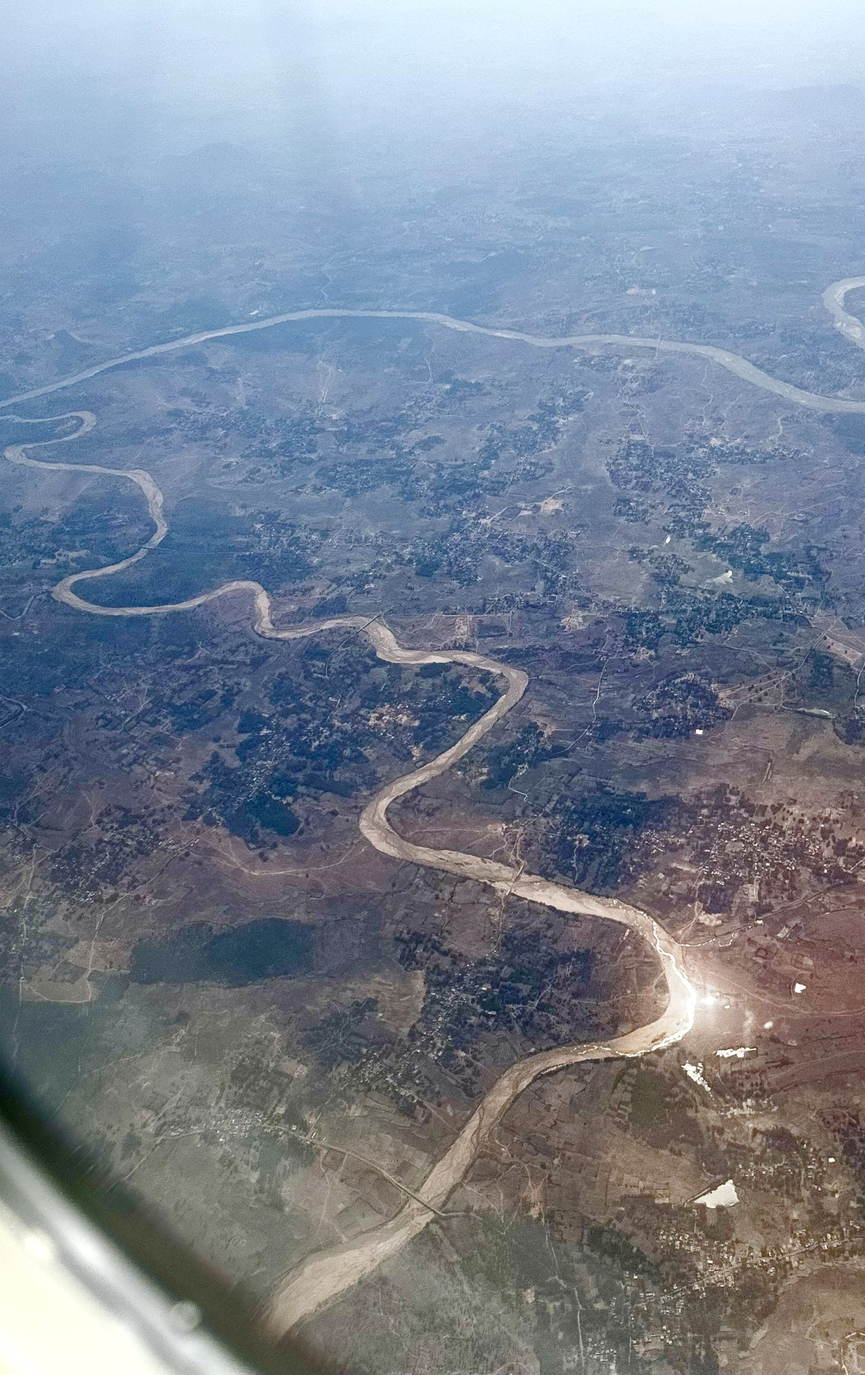
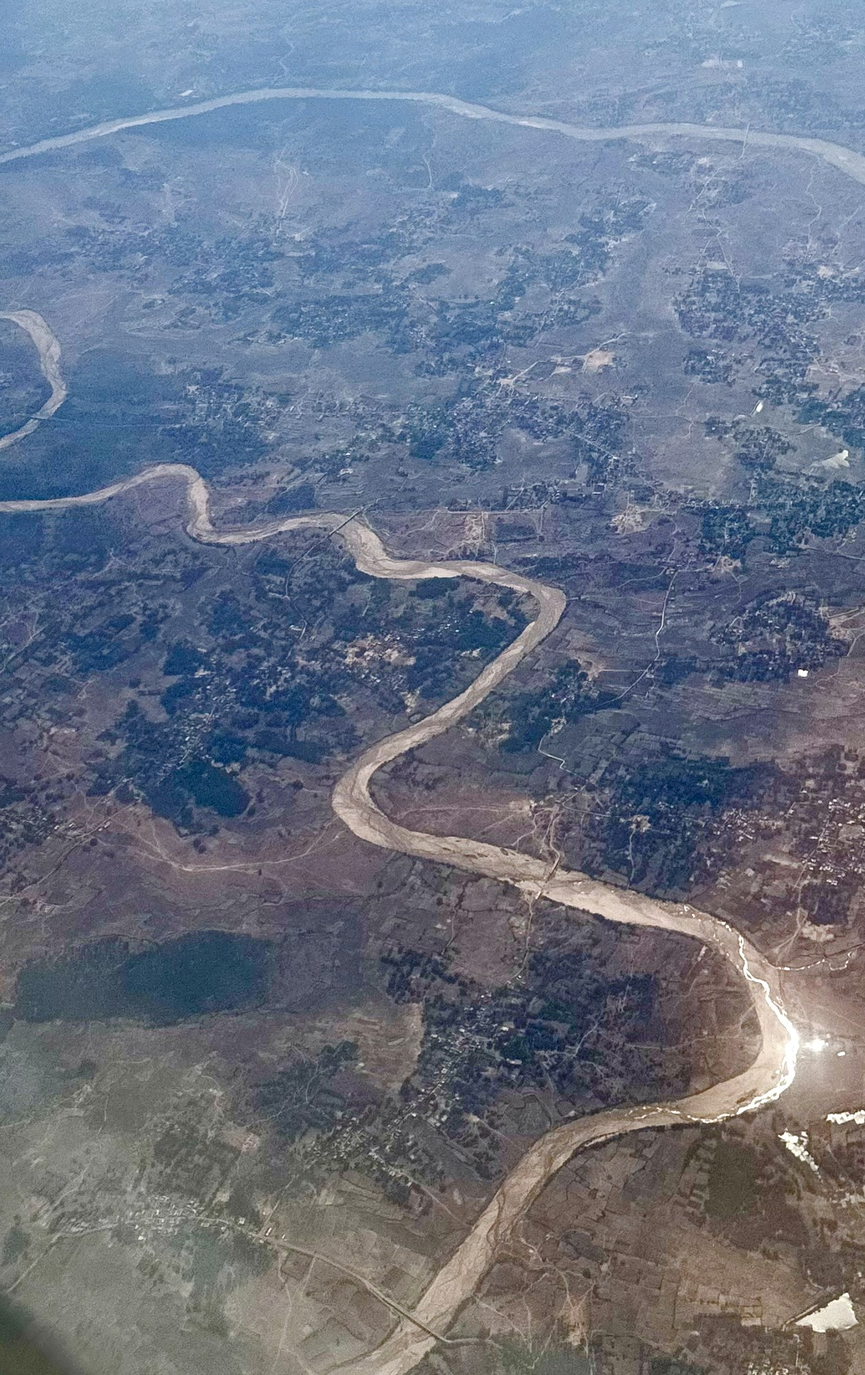
Adjust mobile river hero crop

diff --git a/index.html b/index.html
@@ -32,7 +32,7 @@
   <main id="main-content">
     <section class="hero home-hero" aria-labelledby="hero-title">
       <picture class="hero-picture">
-        <source media="(max-width: 560px)" srcset="assets/images/overview-river-hero-mobile.jpeg">
+        <source media="(max-width: 560px)" srcset="assets/images/overview-river-hero-mobile.jpeg?v=5">
         <img class="hero-image" src="assets/images/overview-river-hero.jpeg" alt="印度大地上的蜿蜒河道與陽光反射">
       </picture>
       <div class="hero-overlay hero-overlay-river"></div>

diff --git a/image_mapping.md b/image_mapping.md
@@ -22,7 +22,7 @@ huahkwang-sacred-sites/assets/images/
 
 | 用途 | 原始檔名 | 輸出檔名 | 選擇理由 |
 |---|---|---|---|
-| 首頁 hero | 0_river_4.jpeg | `overview-river-hero.jpeg`、`overview-river-hero-mobile.jpeg` | 由飛機上俯望印度大地與蜿蜒古河道，水面反光象徵印度河域綻放的智慧光芒；採用 A2_1 裁切與局部遮罩設計，桌機使用橫式圖，手機使用直式專用圖以保留上方小河灣與右下反光。 |
+| 首頁 hero | 0_river_4.jpeg | `overview-river-hero.jpeg`、`overview-river-hero-mobile.jpeg` | 由飛機上俯望印度大地與蜿蜒古河道，水面反光象徵印度河域綻放的智慧光芒；採用 A2_1 裁切與局部遮罩設計，桌機使用橫式圖，手機使用直式專用圖，並收緊上下低訊息區域、讓右下反光保留在畫面內側且避開主標題。 |
 
 ## 1. 藍毘尼園｜佛陀誕生
 
